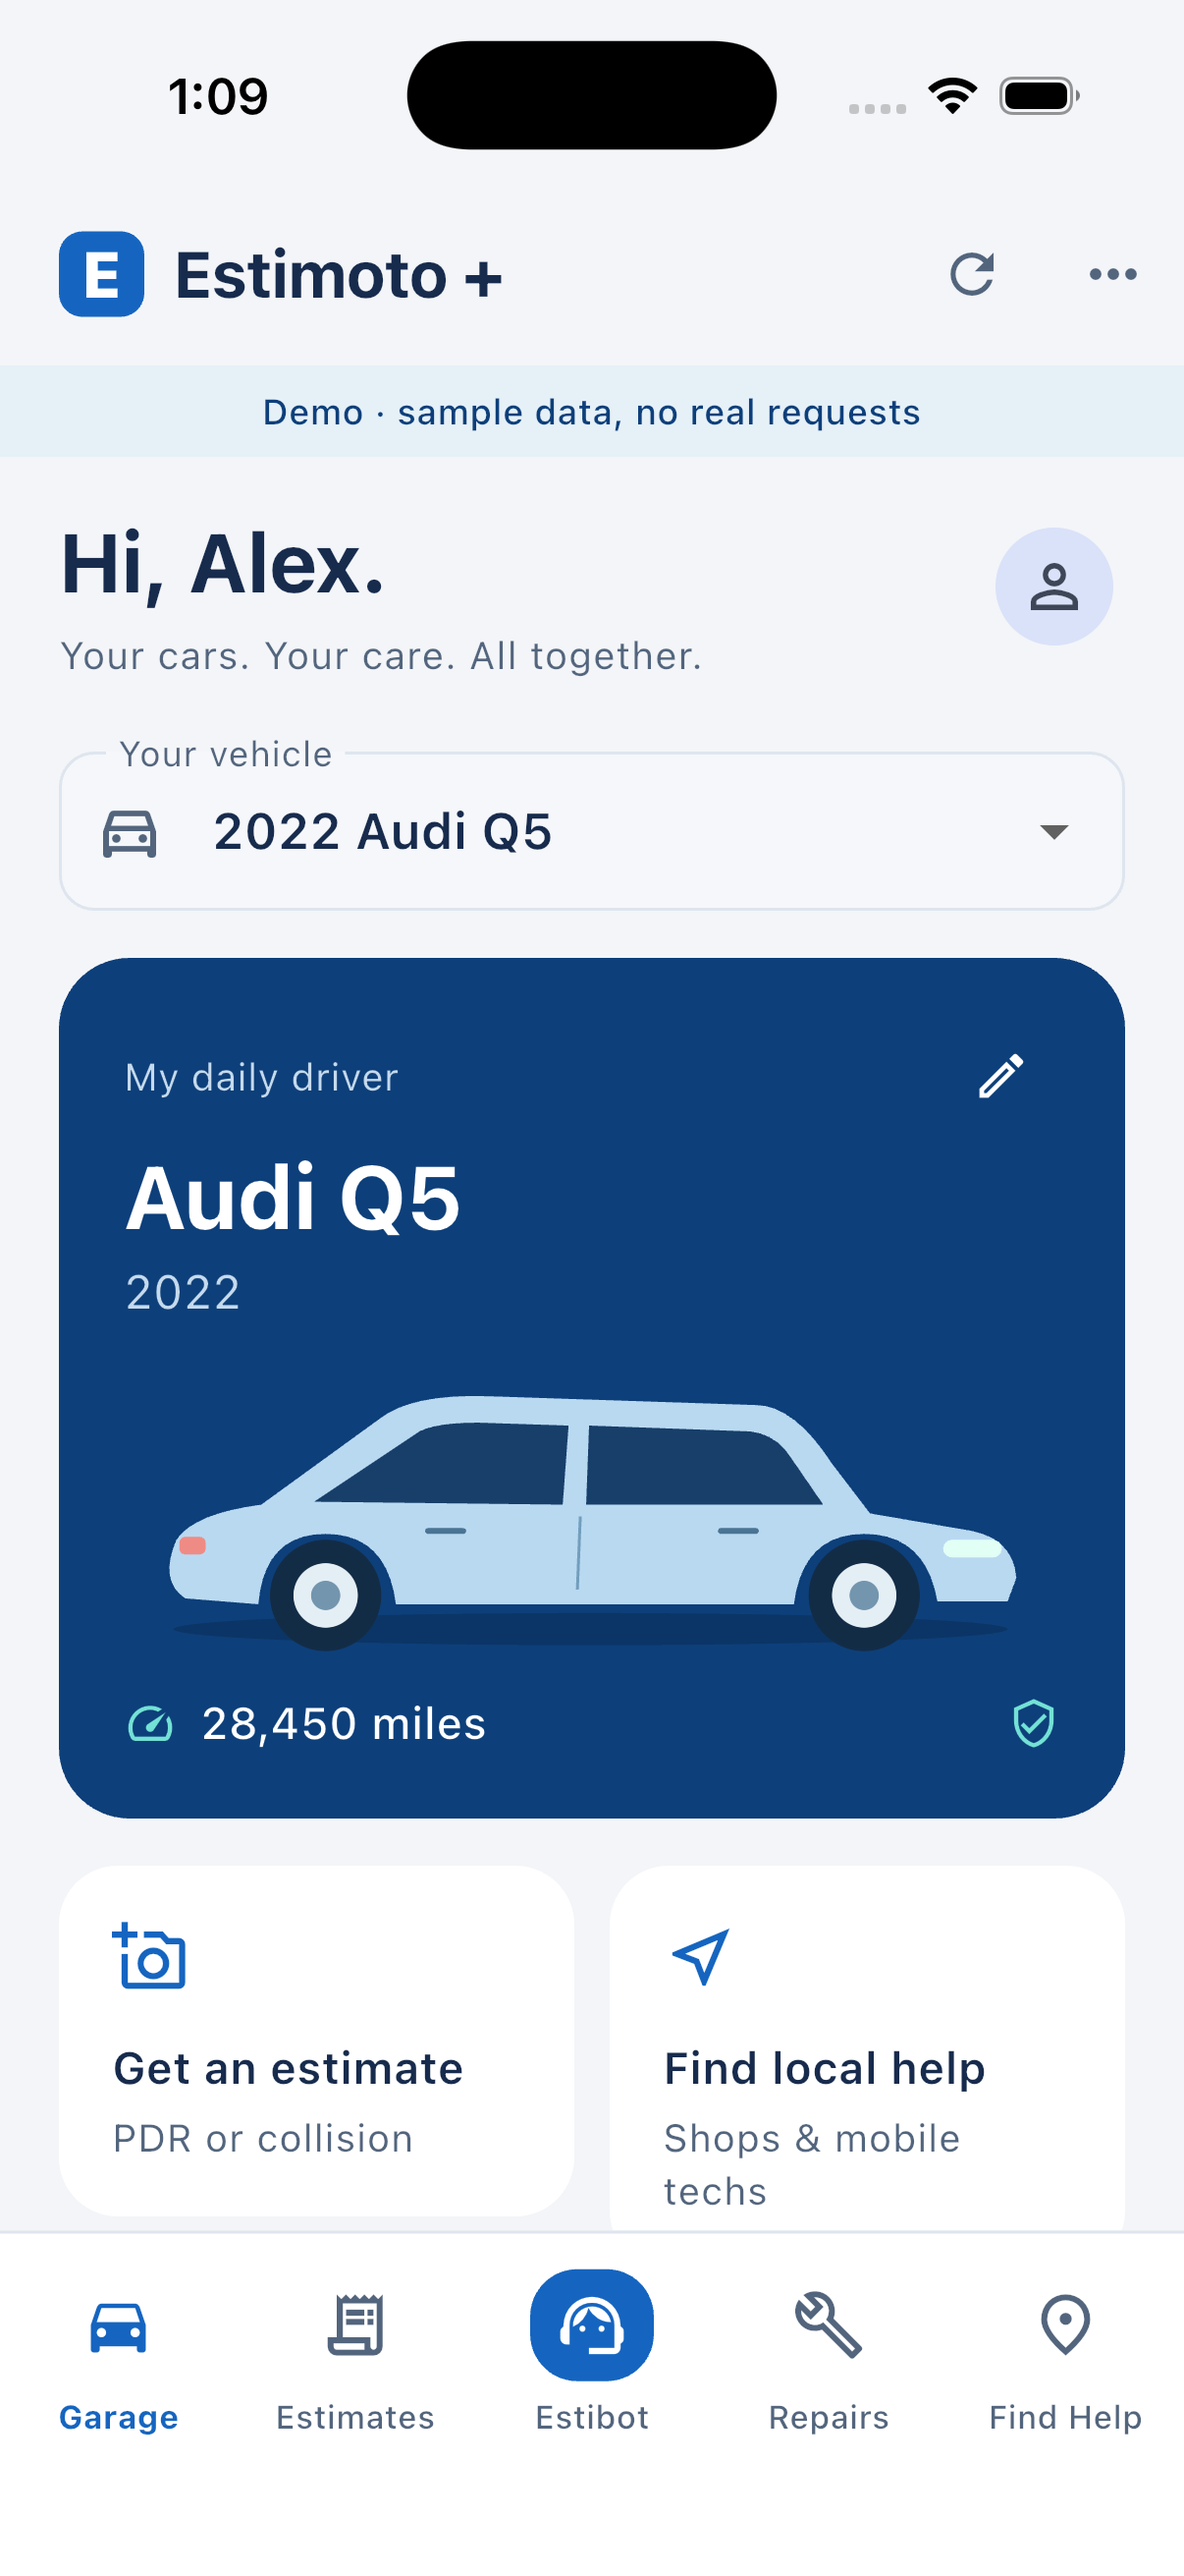
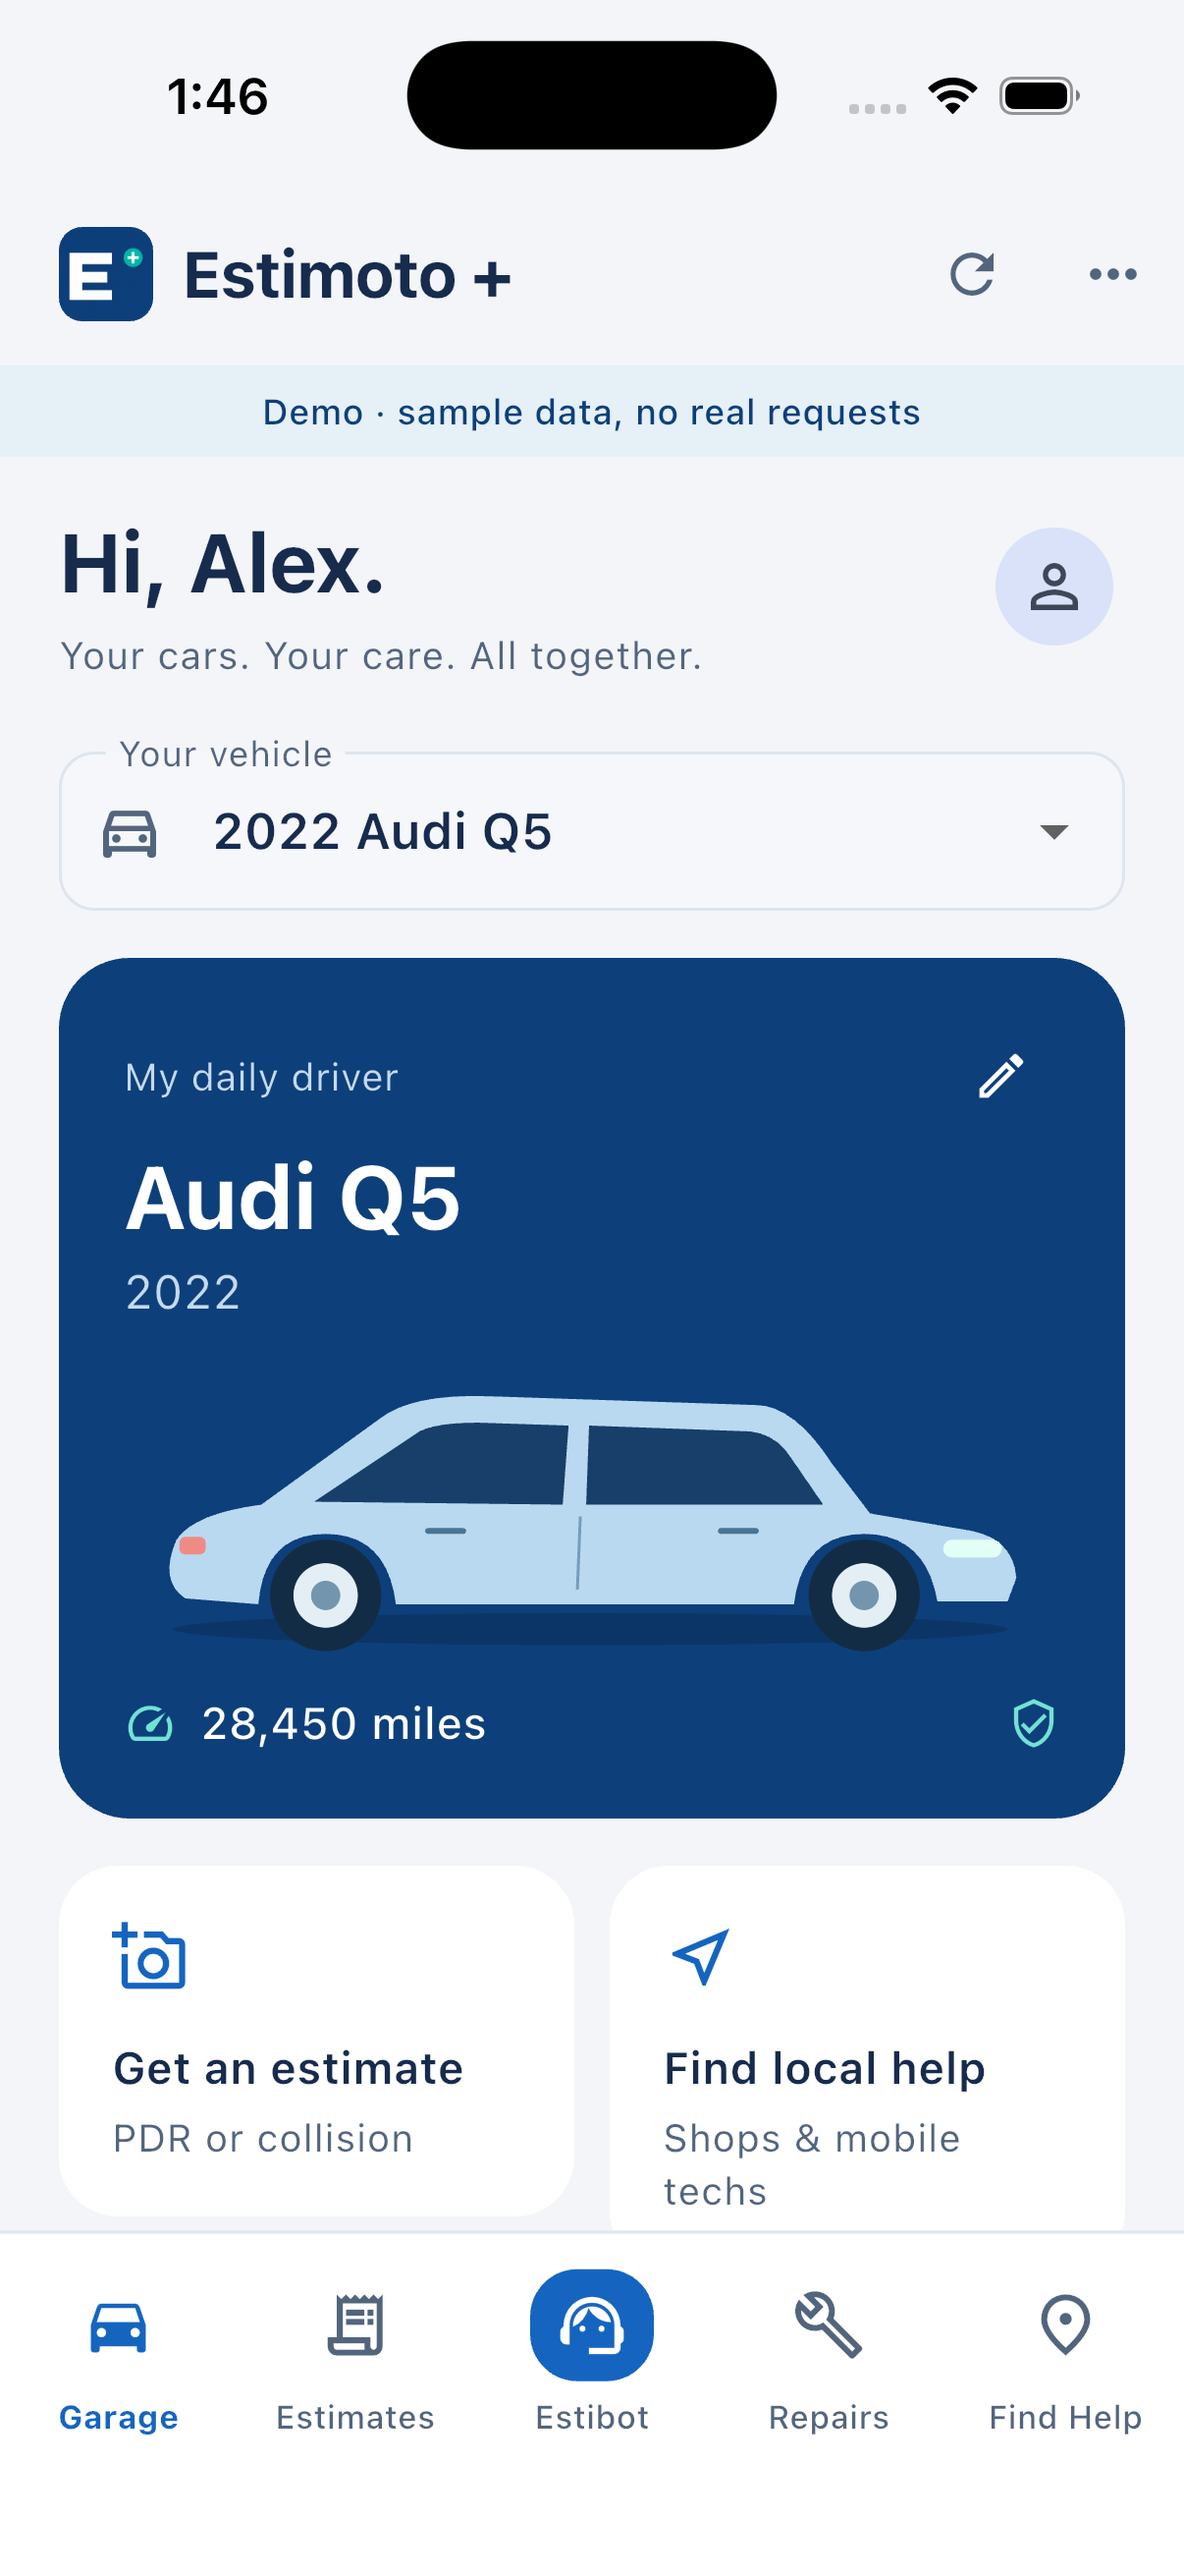
Record branded mobile beta artifacts and Android delivery

Changed region(s): [[0.0307, 0.0618, 0.4295, 0.1236], [0.1534, 0.0309, 0.2148, 0.0618]]

diff --git a/docs/mobile-release.md b/docs/mobile-release.md
@@ -2,6 +2,15 @@
 
 Estimoto + has the separate iOS/Android identity `io.estimoto.plus`, display name `Estimoto +`, and a customer-specific E-plus icon. Build 0.1.0 (1) is an explicitly labeled demo beta; it is not a live customer rollout.
 
+## Current delivery — 2026-09-13
+
+- Source/build commit: `558c35606bc29dac507e454fa264aa47a286eeef`. Flutter analysis and all 19 tests passed. Release IPA, release APK, signed AAB, web and iOS simulator builds passed. The branded simulator app was installed, launched and visually inspected.
+- Android: [direct APK prerelease](https://github.com/JamesMcDaniel04/Estimoto-/releases/tag/v0.1.0-beta.1) published. The APK and AAB signatures match the existing owner-controlled Estimoto release certificate. Both public downloads were downloaded anonymously and their SHA-256 hashes matched the local artifacts. No Android device was connected, so physical installation is not claimed. Google Play listing/internal-track publication is not performed.
+- iOS: bundle ID registered and distribution profile `82QT2M2C8V` active. The exported IPA passed signature verification and contains bundle `io.estimoto.plus`, display name `Estimoto +`, version `0.1.0`, build `1`. The profile disallows release debugging.
+- TestFlight: app record creation and upload are pending App Store Connect website sign-in. Both available browser sessions were signed out. Apple requires [new app records to be created on the website](https://developer.apple.com/documentation/appstoreconnectapi/apps); the existing API key is available for subsequent uploads and tester setup. No upload, processing or tester availability is claimed yet.
+
+Artifact identities, checksums and delivery status are recorded in [mobile-beta-1.json](releases/2026-09-13-mobile-beta-1.json). The local IPA is `app/build/ios/ipa/Estimoto +.ipa`; do not rebuild or change its build number merely because website sign-in is pending.
+
 ## Build
 
 Use `sh scripts/build_beta.sh` on a clean committed checkout. This creates the App Store Connect IPA, release APK, Android App Bundle and web preview with `PLUS_DEMO=true`. Read the [beta notes](releases/0.1.0-1-beta-notes.md) before distribution.

diff --git a/docs/release-status.md b/docs/release-status.md
@@ -2,6 +2,8 @@
 
 This is the first runnable Estimoto + app/API milestone. Source is independent of the Estimoto staff app. It is not a production customer launch.
 
+Subsequent mobile beta work added the requested E-plus branding, registered the separate Apple bundle ID, built signed iOS/Android artifacts and published a direct Android demo prerelease. See [current mobile delivery status](mobile-release.md); TestFlight app-record creation/upload still awaits website sign-in.
+
 ## Source delivery and review
 
 The reviewed source is published to [JamesMcDaniel04/Estimoto-](https://github.com/JamesMcDaniel04/Estimoto-) on `main`. The local demo is served at `http://127.0.0.1:4318/`; it runs only while the preview server is active.
@@ -47,7 +49,7 @@ API and demo assistant paths interpret mobile-service requests, provide determin
 4. Add push notifications and date/mileage reminder delivery. Current reminders persist and display in-app; they do not yet send alerts or read a vehicle's odometer automatically.
 5. Add model-backed Estibot and retrieved/curated video results, with evaluations for common repair questions and technician matching. Current search links are not verified individual videos.
 6. Confirm CARFAX partner access, data rights, coverage and mapping before implementing service-history ingestion and automatic maintenance alerts. No CARFAX integration is claimed.
-7. Finish app icons/store assets, signing, accessibility/device QA, privacy disclosures and store distribution. Generated launch icons are placeholders.
+7. Finish store assets, accessibility/device QA, privacy disclosures and store distribution. The E-plus icons and initial release signing are now implemented; subsequent beta delivery is tracked in the mobile release document above.
 
 ## Reproduce
 

diff --git a/docs/releases/0.1.0-1-beta-notes.md b/docs/releases/0.1.0-1-beta-notes.md
@@ -7,3 +7,5 @@ Try the Garage, PDR and Collision estimate drafts, Repairs, Find Help and Estibo
 This beta intentionally uses fictional demo records. It does not contact a real shop, generate a production estimate, submit an insurance claim, or save information to your live Estimoto account. Demo edits reset when the app restarts. Live Estimoto integration, sign-in, push notifications and CARFAX are still being built.
 
 Please use fictional information when trying the demo. Report issues to support@estimoto.io.
+
+Android testers: download and install `estimoto-plus-0.1.0-1.apk`. This installs alongside the staff Estimoto app. The `.aab` file is a signed Google Play upload artifact; it cannot be installed directly. The beta is distributed here as a direct APK download, not through a Google Play listing.

diff --git a/README.md b/README.md
@@ -4,6 +4,8 @@ The customer companion to Estimoto. A separate mobile app for a saved garage, PD
 
 This repository contains the first working app and customer API milestone. It is not connected to the production Estimoto database or published to the app stores. See [release status](docs/release-status.md) for verified behavior and remaining integration work.
 
+[Download the signed Android demo beta](https://github.com/JamesMcDaniel04/Estimoto-/releases/download/v0.1.0-beta.1/estimoto-plus-0.1.0-1.apk) · [Mobile/TestFlight setup status](docs/mobile-release.md)
+
 <img src="docs/screenshots/garage-ios.png" alt="Estimoto Plus garage on an iOS simulator with clearly labeled demo data" width="300">
 
 ## Explore the app
